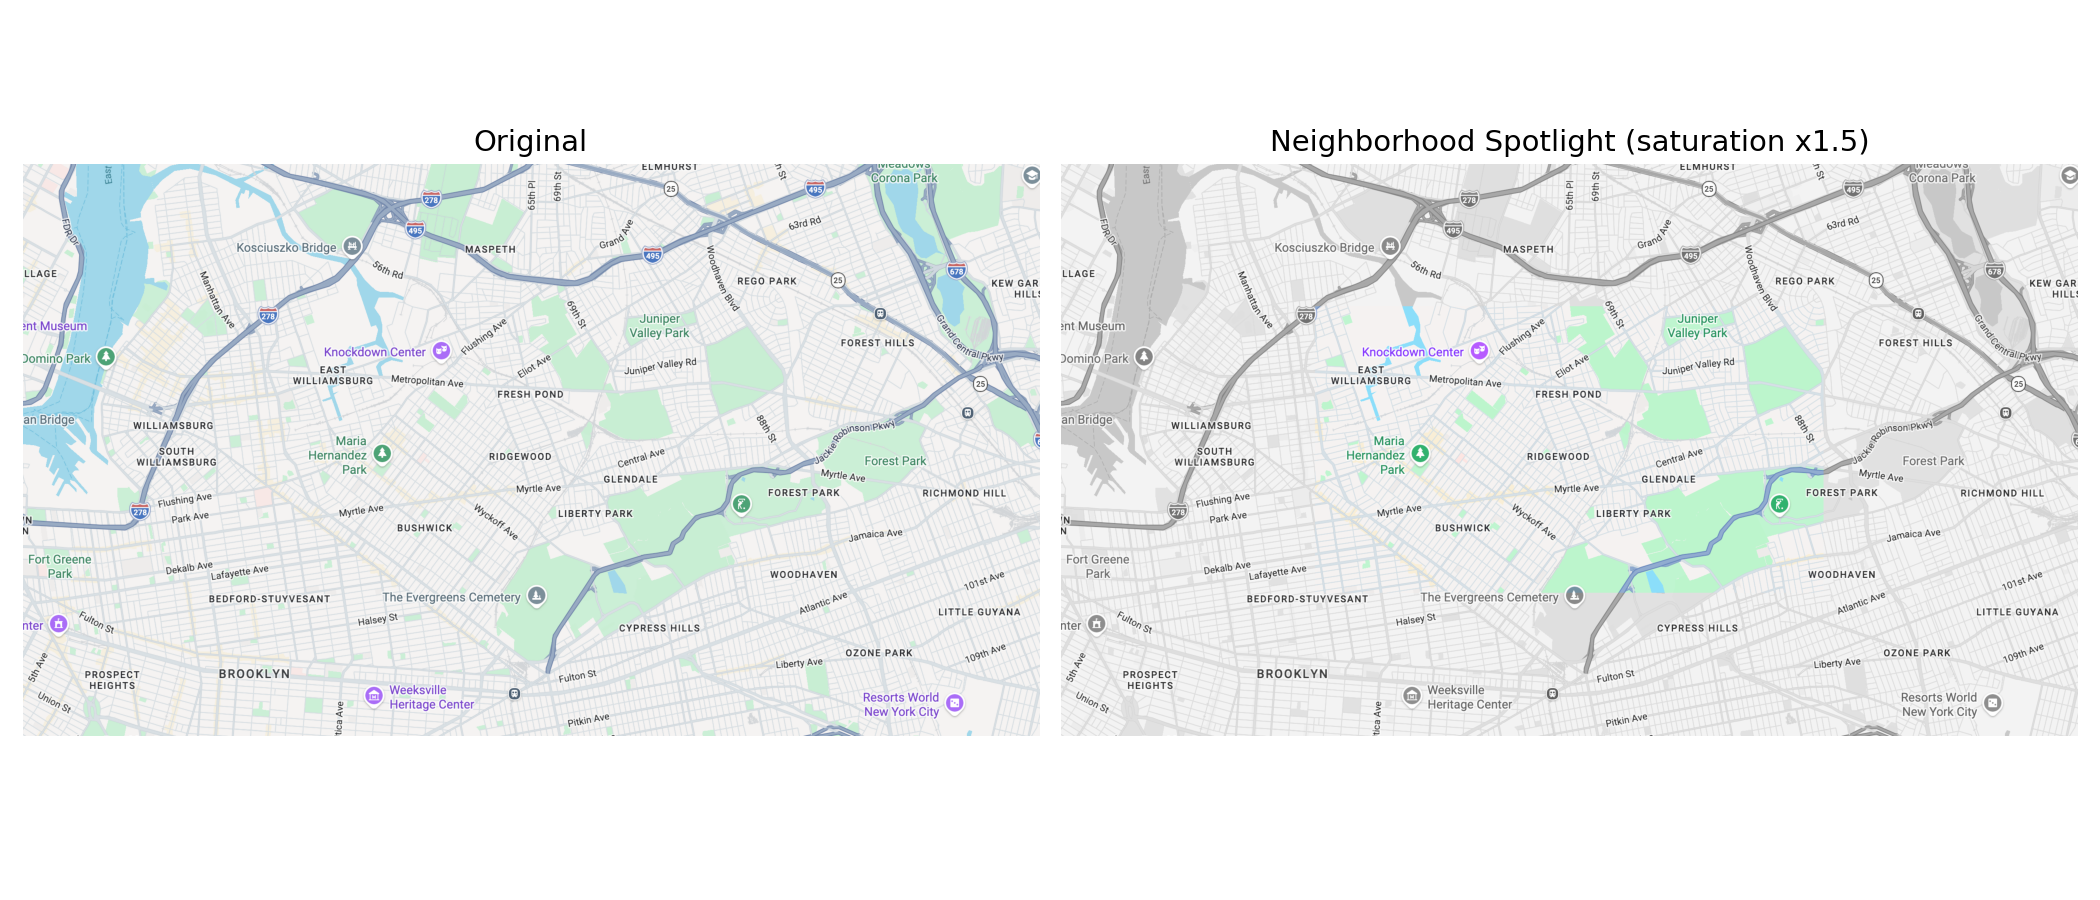
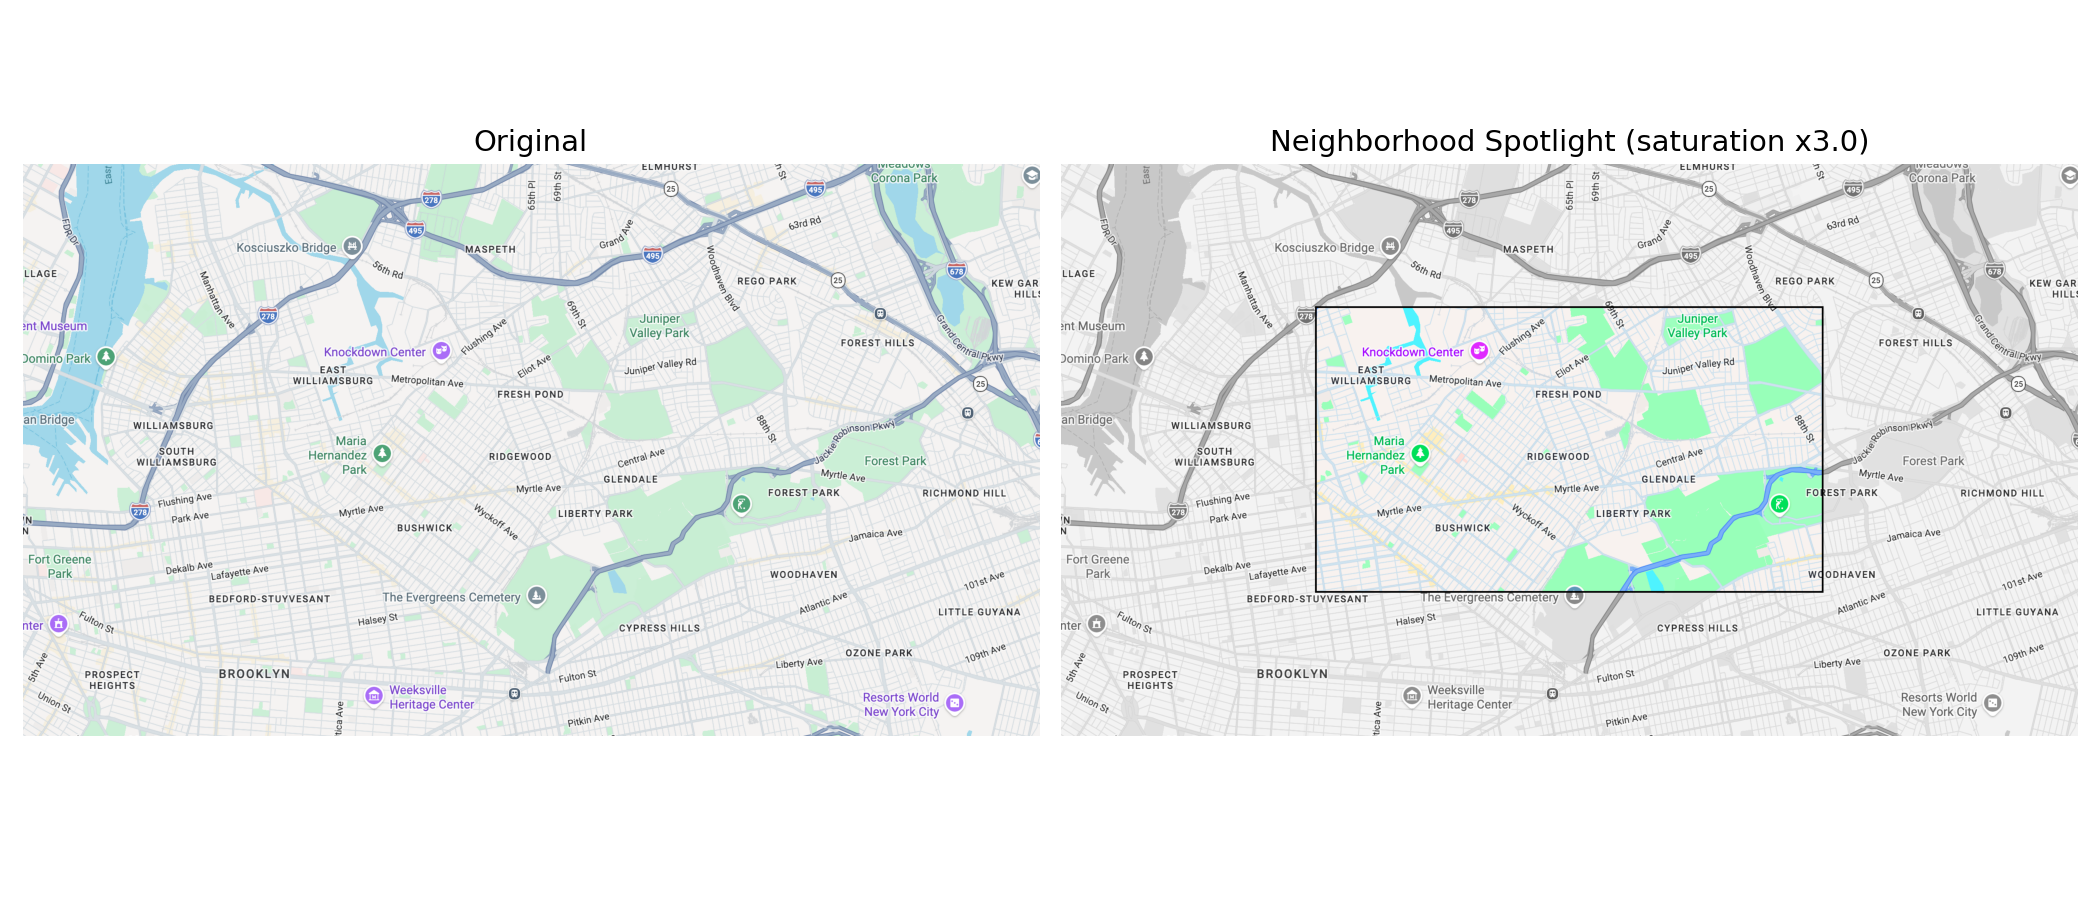
Merge pull request #102 from HunterCSci127/hw_update
updated hc05 no functions and hc09 fixed merge

Pull request: updated hc05 no functions and hc09 fixed merge

diff --git a/f26/psHC.html b/f26/psHC.html
@@ -178,27 +178,54 @@ Fall 2026<br><br>
 
   <p>For this assignment, you will create a spotlight visualization of your neighborhood: a satellite
   map image in which everything outside a central rectangular region is converted to grayscale,
-  while the colors in the spotlight area are amplified. You will write two functions that each
-  transform an image region, apply them to the appropriate areas, and save a single output image.
+  while the colors in the spotlight area are amplified and a black bounding box is drawn around it.
+  You will write a single Python script that loads the image, processes it with array slicing, and
+  saves one output image. The idea is to gray out the whole image, then paint the spotlight back in
+  with amplified color, and finally draw the box.
 
-  <p>Start by downloading a .png map image of your neighborhood from Google Maps, zoomed
-  to a level where your neighborhood fills the frame. Load it using <tt>plt.imread()</tt>, which
+  <p><b>Load the image and set up the spotlight.</b>
+  Start by downloading a .png map image of your neighborhood from Google Maps, zoomed
+  to a level where your neighborhood fills the frame. Ask the user for the input filename and the
+  output filename with <tt>input()</tt>, then load the image using <tt>plt.imread()</tt>, which
   returns a NumPy array of shape height &times; width &times; 3 with float values in [0,&nbsp;1]
-  for PNG files. Make a writable copy to modify, and define your spotlight boundaries as fractions
-  of the image dimensions (for example, the top and bottom of the spotlight at one-quarter and
-  three-quarters of the image height, and similarly for the left and right edges).
+  for PNG files:
+  <pre>
+in_file  = input('Enter the name of your image file: ')
+out_file = input('Enter the name for your output file: ')
+img = plt.imread(in_file)
+  </pre>
+  Make a writable copy to modify (call it <tt>result</tt>), and read the image
+  dimensions from <tt>img.shape</tt>. Then define your spotlight boundaries as fractions of the
+  image dimensions, for example the top and bottom of the spotlight at one-quarter and three-quarters
+  of the height, and similarly for the left and right edges:
+  <pre>
+height = img.shape[0]
+width  = img.shape[1]
 
-  <p><b>Function 1 &mdash; <tt>to_grayscale(region)</tt>:</b>
-  Write a function that takes a rectangular image region (a NumPy array slice of shape
-  rows &times; cols &times; 3) and returns a copy of it converted to grayscale.
-  To convert a color pixel to grayscale, compute its luminance using the weighted formula
-  <tt>L = 0.299*R + 0.587*G + 0.114*B</tt>, then set all three channels to L.
-  Apply this function to each of the four border regions (upper, lower, left, and right).
+top    = height // 4
+# Define bottom, left, and right in the same way
+  </pre>
+  Use <tt>//</tt> (integer division) here, not <tt>/</tt>, because an array index has to be a whole
+  number.
 
-  <p><b>Function 2 &mdash; <tt>boost_saturation(region, factor)</tt>:</b>
-  Now think about what your first function actually did. The luminance L is the gray equivalent
-  of a pixel. Setting all three channels to L zeroes out how much each channel deviates from gray,
-  and that deviation is what carries color. Before writing any code, work through the following:
+  <p><b>Step 1 &mdash; grayscale the whole image.</b>
+  A grayscale pixel has the same value in all three color channels. That value is the pixel's
+  <i>luminance</i>, computed with the weighted formula <tt>L = 0.299*R + 0.587*G + 0.114*B</tt>.
+  Because the red, green, and blue channels are the three "layers" of the array
+  (<tt>img[:,&nbsp;:,&nbsp;0]</tt>, <tt>img[:,&nbsp;:,&nbsp;1]</tt>, and <tt>img[:,&nbsp;:,&nbsp;2]</tt>),
+  you can compute the luminance for every pixel at once and then copy it into all three channels of
+  <tt>result</tt>:
+  <pre>
+L = 0.299 * img[:, :, 0] + 0.587 * img[:, :, 1] + 0.114 * img[:, :, 2]
+result[:, :, 0] = L
+# Set the other two channels to L as well
+  </pre>
+  Once all three channels hold L, the entire <tt>result</tt> image is gray.
+
+  <p><b>Step 2 &mdash; paint the spotlight back in with amplified color.</b>
+  Now think about what luminance actually captures. L is the gray equivalent of a pixel, so
+  <tt>channel&nbsp;-&nbsp;L</tt> measures how far that channel is from gray, and that deviation is
+  what carries the color. Before writing any code, work through the following:
   <ul>
     <li>For a pixel (R, G, B) with luminance L, what is <tt>R - L</tt>? <tt>G - L</tt>?
         <tt>B - L</tt>? What are these values for a pixel that is pure gray?</li>
@@ -206,24 +233,39 @@ Fall 2026<br><br>
         What about <tt>L + 1 * (R - L)</tt>? Do the results surprise you?</li>
     <li>What would <tt>L + 2 * (R - L)</tt> give?</li>
   </ul>
-  <p>Write <tt>boost_saturation(region, factor)</tt>, which returns a copy of the region with each
-  channel set to <tt>L + factor * (channel - L)</tt>, clipped to [0,&nbsp;1] using
-  <tt>numpy.clip(array, 0, 1)</tt>. Clipping caps every value in the array to the valid range:
-  anything below 0 is set to 0, anything above 1 is set to 1. You need this here because
-  multiplying the color deviation by a factor greater than 1 can push channel values outside the
-  range that a float image allows.
-  Apply the function to the spotlight area. Try <tt>factor</tt> values of 0, 0.5, 1,
-  1.5, and 2 and describe what you observe in each case. Which gives the strongest contrast between
-  the spotlight and the gray border?
-
-  <p>Once you have applied both functions, save the result as a single .png file using
-  <tt>plt.imsave()</tt>.
-
-  <p><b>Hint:</b> To apply a function to a region, pass the corresponding array slice directly.
-  For example:
+  <p>To amplify the color, set each channel to <tt>L + factor * (channel - L)</tt> for the central
+  region only, using a <tt>factor</tt> greater than 1. Multiplying the deviation by a factor larger
+  than 1 can push a channel value below 0 or above 1, so wrap the result in
+  <tt>numpy.clip(array, 0, 1)</tt>, which caps every value to the valid range (anything below 0
+  becomes 0, anything above 1 becomes 1). Compute the luminance of the central slice and assign the
+  boosted, clipped values back into that same slice of <tt>result</tt>:
   <pre>
-result[:border_top, :] = to_grayscale(img[:border_top, :])
+factor = 3.0
+center = img[top:bottom, left:right]
+Lc = 0.299 * center[:, :, 0] + 0.587 * center[:, :, 1] + 0.114 * center[:, :, 2]
+
+result[top:bottom, left:right, 0] = np.clip(Lc + factor * (center[:, :, 0] - Lc), 0, 1)
+# Do the same for channels 1 and 2
   </pre>
+  Try <tt>factor</tt> values of 0, 0.5, 1, 1.5, 2, and 3 and describe what you observe in each case.
+  Which gives the strongest contrast between the spotlight and the gray border? Use a factor of 3 for
+  your final image so the spotlight colors are strongly amplified.
+
+  <p><b>Step 3 &mdash; draw the black bounding box.</b>
+  To make the spotlight stand out, draw a black box along the four edges of the central rectangle.
+  Pick a thickness of a few pixels, then set those edge strips to black by assigning <tt>0</tt> to the
+  first three channels of each strip. The top edge is a strip a few rows tall spanning the width of the
+  spotlight, the left edge is a strip a few columns wide spanning its height, and similarly for the
+  bottom and right:
+  <pre>
+thickness = 4
+result[top:top + thickness, left:right, :3] = 0   # top edge
+# Now draw the bottom, left, and right edges the same way
+  </pre>
+  Draw the box last, so it sits on top of the amplified colors.
+
+  <p><b>Save your result.</b> Save the finished image as a single .png file using the output
+  filename you read earlier: <tt>plt.imsave(out_file, result)</tt>.
 
   <p><b>Individual submission:</b> Submit a .pdf file containing your Python code and both the original
   and processed images side by side to the assignment <tt>HC5 - Neighborhood Spotlight</tt> in the honors section of
@@ -341,7 +383,10 @@ result[:border_top, :] = to_grayscale(img[:border_top, :])
 
   <p>Using the latitude and longitude coordinates from the merged dataset, you will create an interactive
   Plotly scatter map of your borough in which each Census tract appears as a marker colored by its
-  mobility outcome (<tt>kfr_pooled_pooled_p25</tt>).
+  mobility outcome (<tt>kfr_pooled_pooled_p25</tt>). Keep in mind that these coordinates are tract
+  <i>centroids</i>, a single representative point (the population-weighted center) for each tract, so your
+  map shows opportunity at these locations, not spread across the tract's actual area. A large, sparsely
+  populated tract and a small, dense one both appear as a single dot.
 
   <p>To do this:
   <ul>